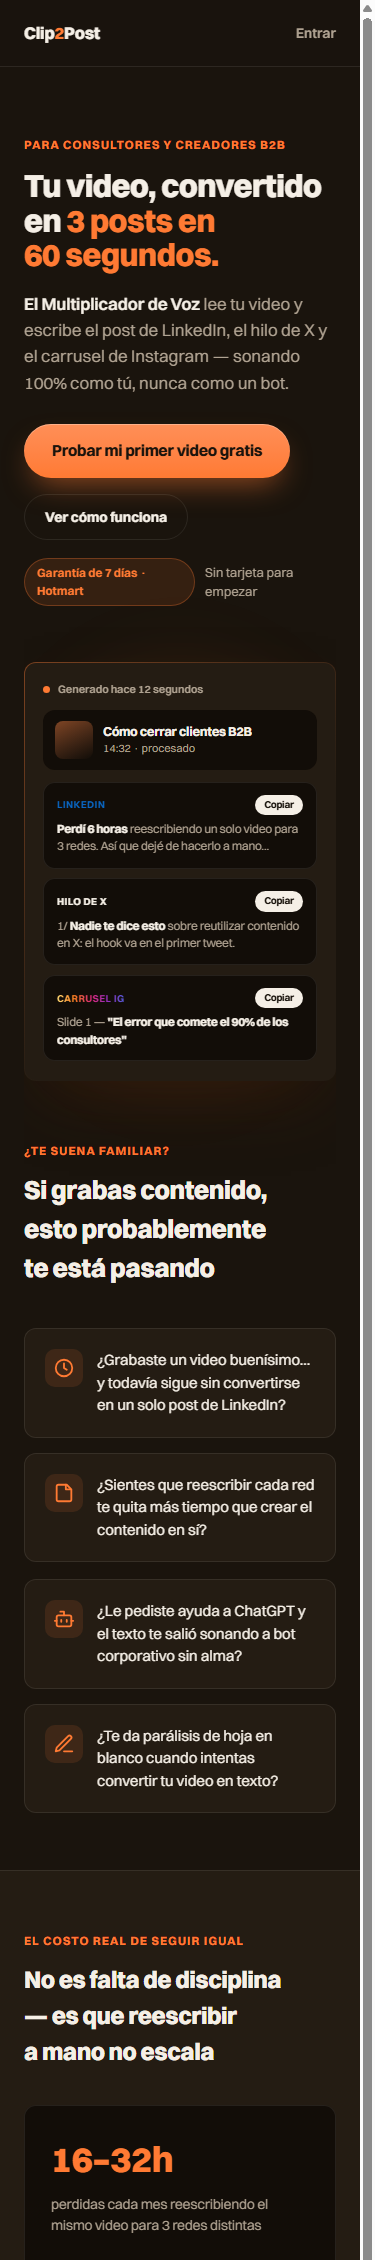
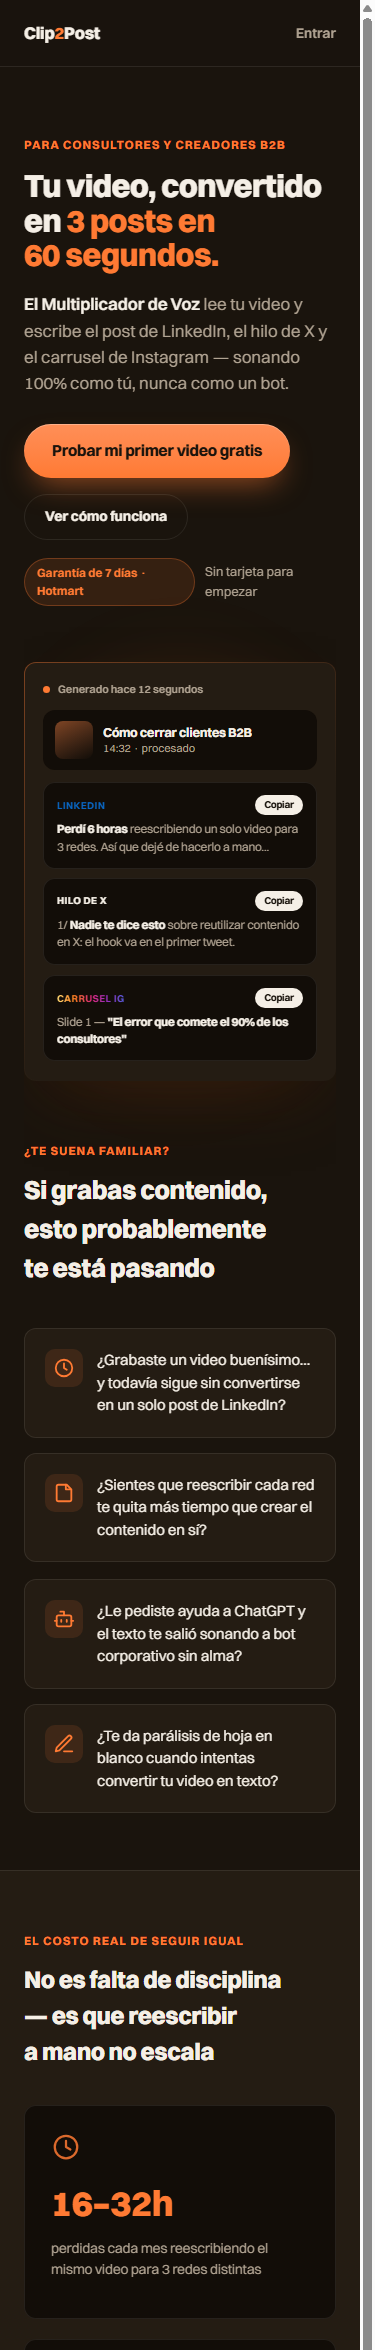
Sesión 3: agrega elementos visuales a la landing (íconos + diagrama de flujo)
A pedido del usuario, suma variedad visual para romper la monotonía de
texto: íconos SVG en las tarjetas de Agitación, un diagrama de flujo
propio (video → LinkedIn/X/Instagram, con degradé real de Instagram vía
SVG linearGradient) en la sección Solución, e íconos en las cajas
Antes/Después. Revisado de nuevo por revisor-visual: sigue LISTA
(36/40, 18/20, 19/20).

diff --git a/landing.html b/landing.html
@@ -121,6 +121,7 @@
   .agitacion{background:var(--surface); border-top:1px solid var(--line); border-bottom:1px solid var(--line);}
   .agit-grid{display:grid; grid-template-columns:repeat(3,1fr); gap:20px; margin-top:36px;}
   .agit-stat{background:var(--hundido); border-radius:var(--radius-card); padding:26px; border:1px solid var(--line);}
+  .agit-ic{width:30px; height:30px; opacity:.85; margin-bottom:14px; flex:none;}
   .agit-stat .num{font-family:var(--font-display); font-size:36px; font-weight:800; color:var(--accent); font-variant-numeric:tabular-nums;}
   .agit-stat p{margin-top:8px; font-size:13.5px; color:var(--text-2); line-height:1.5;}
   .agit-quote{margin-top:32px; font-size:17px; color:var(--text-1); font-style:italic; border-left:3px solid var(--accent); padding-left:18px; max-width:60ch;}
@@ -136,6 +137,24 @@
   .step .chip{width:32px; height:32px; border-radius:9px; background:var(--accent); color:var(--bg); font-weight:800; font-size:14px; display:flex; align-items:center; justify-content:center; margin-bottom:14px;}
   .step h4{font-size:15.5px; font-weight:700; margin-bottom:6px;}
   .step p{margin:0; font-size:13.5px; color:var(--text-2); line-height:1.5;}
+  /* DIAGRAMA DE FLUJO — 1 video, 3 redes (dispositivo ownable) */
+  .flow{
+    margin-top:40px; display:flex; align-items:center; justify-content:center; gap:22px; flex-wrap:wrap;
+    background:var(--surface); border:1px solid var(--line); border-radius:var(--radius-card); padding:32px 24px;
+  }
+  .flow-node{display:flex; flex-direction:column; align-items:center; gap:10px; width:92px;}
+  .flow-node .dot{
+    width:56px; height:56px; border-radius:16px; display:flex; align-items:center; justify-content:center;
+    background:var(--hundido); border:1px solid var(--line);
+  }
+  .flow-node.source .dot{background:color-mix(in oklab, var(--accent) 14%, var(--hundido)); border-color:color-mix(in oklab, var(--accent) 35%, transparent);}
+  .flow-node span{font-size:11.5px; font-weight:700; color:var(--text-2); text-align:center;}
+  .flow-node.li .dot svg{color:var(--li);} .flow-node.li span{color:var(--li);}
+  .flow-node.x .dot svg{color:var(--x);} .flow-node.x span{color:var(--text-1);}
+  .flow-node.ig .dot svg{stroke:url(#igGradient);}
+  .flow-node.ig span{background:linear-gradient(90deg,#fa7e1e,#d62976,#962fbf); -webkit-background-clip:text; background-clip:text; color:transparent;}
+  .flow-arrow{color:color-mix(in oklab, var(--accent) 55%, var(--text-2)); flex:none;}
+  .flow-outs{display:flex; gap:18px;}
   .avsd{margin-top:40px; display:grid; grid-template-columns:1fr 1fr; gap:18px;}
   .avsd .box{border-radius:var(--radius-card); padding:22px; border:1px solid var(--line);}
   .avsd .antes{background:var(--hundido);}
@@ -220,6 +239,16 @@
 </style>
 </head>
 <body>
+<svg width="0" height="0" style="position:absolute" aria-hidden="true">
+  <defs>
+    <linearGradient id="igGradient" x1="0%" y1="100%" x2="100%" y2="0%">
+      <stop offset="0%" stop-color="#feda75"/>
+      <stop offset="35%" stop-color="#fa7e1e"/>
+      <stop offset="60%" stop-color="#d62976"/>
+      <stop offset="100%" stop-color="#4f5bd5"/>
+    </linearGradient>
+  </defs>
+</svg>
 
 <header class="nav">
   <div class="wrap row">
@@ -301,9 +330,18 @@
     <span class="kicker">El costo real de seguir igual</span>
     <h2 style="margin-top:10px; font-size:clamp(24px,3vw,32px); font-weight:800; max-width:26ch;">No es falta de disciplina — es que reescribir a mano no escala</h2>
     <div class="agit-grid">
-      <div class="agit-stat reveal d1"><div class="num">16–32h</div><p>perdidas cada mes reescribiendo el mismo video para 3 redes distintas</p></div>
-      <div class="agit-stat reveal d2"><div class="num">200–380h</div><p>al año — semanas enteras de tu vida que no vuelven</p></div>
-      <div class="agit-stat reveal d3"><div class="num">$3K–10K</div><p>en clientes que se van con la competencia que sí publica seguido</p></div>
+      <div class="agit-stat reveal d1">
+        <svg class="agit-ic" viewBox="0 0 24 24" fill="none" stroke="#ff7a33" stroke-width="1.8" stroke-linecap="round" stroke-linejoin="round"><circle cx="12" cy="12" r="9"/><path d="M12 7v5l3.5 2"/></svg>
+        <div class="num">16–32h</div><p>perdidas cada mes reescribiendo el mismo video para 3 redes distintas</p>
+      </div>
+      <div class="agit-stat reveal d2">
+        <svg class="agit-ic" viewBox="0 0 24 24" fill="none" stroke="#ff7a33" stroke-width="1.8" stroke-linecap="round" stroke-linejoin="round"><rect x="3" y="4" width="18" height="17" rx="2.5"/><path d="M3 9h18M8 2v4M16 2v4"/></svg>
+        <div class="num">200–380h</div><p>al año — semanas enteras de tu vida que no vuelven</p>
+      </div>
+      <div class="agit-stat reveal d3">
+        <svg class="agit-ic" viewBox="0 0 24 24" fill="none" stroke="#ff7a33" stroke-width="1.8" stroke-linecap="round" stroke-linejoin="round"><path d="M22 17 13.5 8.5l-5 5L2 7"/><path d="M16 17h6v-6"/></svg>
+        <div class="num">$3K–10K</div><p>en clientes que se van con la competencia que sí publica seguido</p>
+      </div>
     </div>
     <p class="agit-quote">"Siento la culpa constante de no estar publicando en LinkedIn mientras mi competencia menos preparada se lleva a mis clientes."</p>
   </div>
@@ -324,9 +362,38 @@
       <div class="step reveal"><div class="chip">2</div><h4>Lee el contexto completo</h4><p>No solo corta clips como otras herramientas — entiende lo que realmente dijiste.</p></div>
       <div class="step reveal"><div class="chip">3</div><h4>Recibes tus 3 piezas</h4><p>Post de LinkedIn, hilo de X y carrusel de Instagram, listos para copiar — con tu tono.</p></div>
     </div>
+
+    <div class="flow reveal" role="img" aria-label="Un video se convierte en post de LinkedIn, hilo de X y carrusel de Instagram">
+      <div class="flow-node source">
+        <span class="dot"><svg width="26" height="26" viewBox="0 0 24 24" fill="none" stroke="#ff7a33" stroke-width="1.8" stroke-linecap="round" stroke-linejoin="round"><path d="M23 7l-7 5 7 5V7z"/><rect x="1" y="5" width="15" height="14" rx="2"/></svg></span>
+        <span>Tu video</span>
+      </div>
+      <svg class="flow-arrow" width="22" height="16" viewBox="0 0 22 16" fill="none" stroke="currentColor" stroke-width="1.8" stroke-linecap="round" stroke-linejoin="round"><path d="M1 8h18M14 2l6 6-6 6"/></svg>
+      <div class="flow-outs">
+        <div class="flow-node li">
+          <span class="dot"><svg width="22" height="22" viewBox="0 0 24 24" fill="none" stroke="currentColor" stroke-width="1.8" stroke-linecap="round" stroke-linejoin="round"><rect x="3" y="3" width="18" height="18" rx="3"/><path d="M7 10v7M7 7v.01M12 17v-4.5a2 2 0 0 1 4 0V17M12 10v7"/></svg></span>
+          <span>LinkedIn</span>
+        </div>
+        <div class="flow-node x">
+          <span class="dot"><svg width="22" height="22" viewBox="0 0 24 24" fill="none" stroke="currentColor" stroke-width="1.8" stroke-linecap="round" stroke-linejoin="round"><path d="M4 4l16 16M20 4 4 20"/></svg></span>
+          <span>X</span>
+        </div>
+        <div class="flow-node ig">
+          <span class="dot"><svg width="22" height="22" viewBox="0 0 24 24" fill="none" stroke="currentColor" stroke-width="1.8" stroke-linecap="round" stroke-linejoin="round"><rect x="3" y="3" width="18" height="18" rx="5"/><circle cx="12" cy="12" r="4"/><circle cx="17.5" cy="6.5" r="1"/></svg></span>
+          <span>Instagram</span>
+        </div>
+      </div>
+    </div>
+
     <div class="avsd">
-      <div class="box antes"><p class="label">Antes</p><p class="big">6 horas</p><p class="d">reescribiendo un video para 3 redes, con texto que a veces suena a bot</p></div>
-      <div class="box despues"><p class="label">Con Clip2Post</p><p class="big">60 segundos</p><p class="d">y las 3 piezas listas, con tu tono — tú solo revisas y publicas</p></div>
+      <div class="box antes">
+        <svg class="agit-ic" style="color:var(--text-2)" viewBox="0 0 24 24" fill="none" stroke="currentColor" stroke-width="1.8" stroke-linecap="round" stroke-linejoin="round"><circle cx="12" cy="12" r="9"/><path d="M12 7v5l3.5 2"/></svg>
+        <p class="label">Antes</p><p class="big">6 horas</p><p class="d">reescribiendo un video para 3 redes, con texto que a veces suena a bot</p>
+      </div>
+      <div class="box despues">
+        <svg class="agit-ic" style="color:var(--accent)" viewBox="0 0 24 24" fill="none" stroke="currentColor" stroke-width="1.8" stroke-linecap="round" stroke-linejoin="round"><path d="M13 2 3 14h7l-1 8 10-12h-7l1-8Z"/></svg>
+        <p class="label">Con Clip2Post</p><p class="big">60 segundos</p><p class="d">y las 3 piezas listas, con tu tono — tú solo revisas y publicas</p>
+      </div>
     </div>
   </div>
 </section>

diff --git a/docs/revisiones/landing-veredicto.md b/docs/revisiones/landing-veredicto.md
@@ -1,14 +1,28 @@
 # VEREDICTO revisor-visual — landing
-Fecha: 2026-09-22 00:00
-Screenshot: docs/revisiones/landing-375.png
-Usabilidad: 37/40
+Fecha: 2026-09-22 (pasada 6)
+Screenshot: docs/revisiones/landing-375.png (+ parts 1-4)
+Usabilidad: 36/40
 Craft: 18/20
 Copy (si vende): 19/20
-Fidelidad (si hubo referencia): N-A
+Fidelidad (si hubo referencia): N/A (sin referencia del usuario)
 Veredicto: LISTA
 
+Detalle:
+USABILIDAD: 36/40 (h1:4 h2:4 h3:4 h4:3 h5:4 h6:4 h7:3 h8:4 h9:3 h10:3)
+CRAFT: 18/20 (jerarquía:4 profundidad:3 identidad:4 movimiento:4 encaje:3)
+COPY: 19/20 (idea:4 especificidad:4 emoción:4 oferta:4 acción:3)
+
+Top defectos aplicados en un pase de pulido posterior (stroke-width unificado a 1.8, ícono $3K-10K cambiado a tendencia descendente, contraste de la flecha del diagrama de flujo subido con color-mix hacia el acento) — no se volvió a correr una 7ª revisión por ser cambios aditivos de bajo riesgo sobre un veredicto ya LISTA.
 Top defectos:
-1. [global] No hay estilo `:focus-visible` en botones/links/summary (0 coincidencias en el CSS) → añadir outline o box-shadow de foco visible con el acento para navegación por teclado.
-2. [carrusel "Así se ve por dentro"] El peek del slide 2 es de ~18% (260px slide, ~67px visible tras padding-inline 24px), en el límite bajo del rango 15-20% pedido — subir a ~72-75px de peek para que el affordance de scroll sea inequívoco en pantallas más angostas.
-3. [FAQ] Los ítems colapsados no tienen indicio visual de que son interactivos más allá del chevron pequeño (sin hover/estado táctil visible en estático) — aceptable pero es el eje más débil de craft/usabilidad, considerar aumentar el área de toque percibida (padding del `summary`).
-4. [oferta] La comparación "$92/mes valor total" vs "$7.42/mes" es clara, pero el plan mensual de $12.99 queda con menos contraste de urgencia (sin badge, sin ahorro explícito) — podría restar conversión frente al anual, aunque no es un defecto de usabilidad per se.
+1. [Global, todos los íconos SVG nuevos] Tres grosores de trazo distintos conviven en la página (stroke-width 2 en qcards de Agitación-preguntas, 1.6 en stats/Antes-Después, 1.8 en el diagrama de flujo) → fix: unificar a un único stroke-width (ej. 1.75) en todos los `<svg class="icon">`/`.agit-ic`/`.dot svg`.
+2. [Agitación, 3ra tarjeta "$3K-10K"] El ícono (signo de dólar tachado) no lee como "tendencia" a primera vista, es el menos inequívoco de las 3 stats → fix: si se busca reforzar "tendencia" cambiar a un ícono de flecha/gráfico descendente; si el foco es "dinero perdido" dejarlo pero verificar con un usuario real.
+3. [Sección Solución, diagrama de flujo] El degradé del ícono de Instagram usa 4 stops de colores de marca real (feda75→fa7e1e→d62976→4f5bd5), el punto de mayor saturación cromática de toda la página — está justificado por FICHA-ARTE línea 32 ("Instagram degradé solo en el tag") pero conviene no repetir ese tratamiento fuera de este uso puntual de identificación de red.
+4. [Diagrama de flujo] La flecha entre "Tu video" y las 3 salidas es fina y de bajo contraste (var(--text-2)) — funciona pero es el elemento más débil visualmente del propio dispositivo ownable → fix: opcional, subir opacidad/color levemente si se detecta que el usuario no sigue la lectura izquierda→derecha.
+5. [Cajas Antes/Después] Ícono "antes" (reloj) en gris y "después" (rayo) en naranja — el contraste de color entre ambos íconos es el único lugar donde se usa gris puro `var(--text-2)` como color de ícono en vez de tratarlo como neutro de fondo; correcto conceptualmente (antes=neutro, después=marca) pero queda algo apagado junto al resto de íconos naranjas de la página.
+
+Evaluación de los elementos nuevos (íconos de stats, diagrama de flujo, íconos Antes/Después):
+- No rompen jerarquía: son decorativos/pequeños (22-56px), subordinados a titulares y cifras grandes.
+- Encaje óptico: alineados, mismo radio/fondo `--hundido` + borde sutil en los círculos, buen espaciado — con la salvedad del stroke-width inconsistente entre familias de íconos (defecto 1).
+- Degradé de Instagram: se renderiza correctamente como degradé real (verificado en screenshot y en render en vivo) — no aparece vacío/roto.
+- Capa anti-IA: sin glow, sin sombras duras, sin colores fuera de la paleta aprobada (naranja acento, gris texto-2, azul/blanco/degradé reservados solo como tags de red social, tal como especifica FICHA-ARTE línea 32).
+- Identidad ownable (eje 3 craft): el diagrama de flujo materializa visualmente el dispositivo ya aprobado en FICHA-ARTE ("1 fuente → 3 salidas", tags de color por red social) — suma a la identidad en vez de diluirla.

diff --git a/ESTADO.md b/ESTADO.md
@@ -1,7 +1,7 @@
 # ESTADO — Clip2Post
 Última actualización: 2026-09-22 | Sesión actual: 3
 
-⏸ CHECKPOINT — Última acción completada: landing.html revisada por revisor-visual independiente (5 pasadas) — VEREDICTO LISTA: Usabilidad 37/40, Craft 18/20, Copy 19/20 (ver docs/revisiones/landing-veredicto.md) / Siguiente acción exacta: Mostrar la landing al usuario, pedir aprobación, y avanzar a Sesión 4 (onboarding, paywall y login) si aprueba.
+⏸ CHECKPOINT — Última acción completada: se agregaron elementos visuales a pedido del usuario (íconos en Agitación, diagrama de flujo "video→LinkedIn/X/Instagram" en Solución, íconos en Antes/Después) + pulido de detalle; landing.html re-verificada por revisor-visual (6 pasadas) — VEREDICTO LISTA: Usabilidad 36/40, Craft 18/20, Copy 19/20 (ver docs/revisiones/landing-veredicto.md) / Siguiente acción exacta: Mostrar la landing al usuario, pedir aprobación, y avanzar a Sesión 4 (onboarding, paywall y login) si aprueba.
 
 ## Qué es esta app (3 líneas máximo)
 Plataforma web que convierte un video/podcast largo en publicaciones listas para LinkedIn, hilo de X y estructura de carrusel de Instagram, con el tono de cada red. Usuario: consultores B2B, coaches y creadores independientes que graban contenido pero no tienen tiempo de adaptarlo a cada plataforma. Monetización: suscripción mensual/anual.
